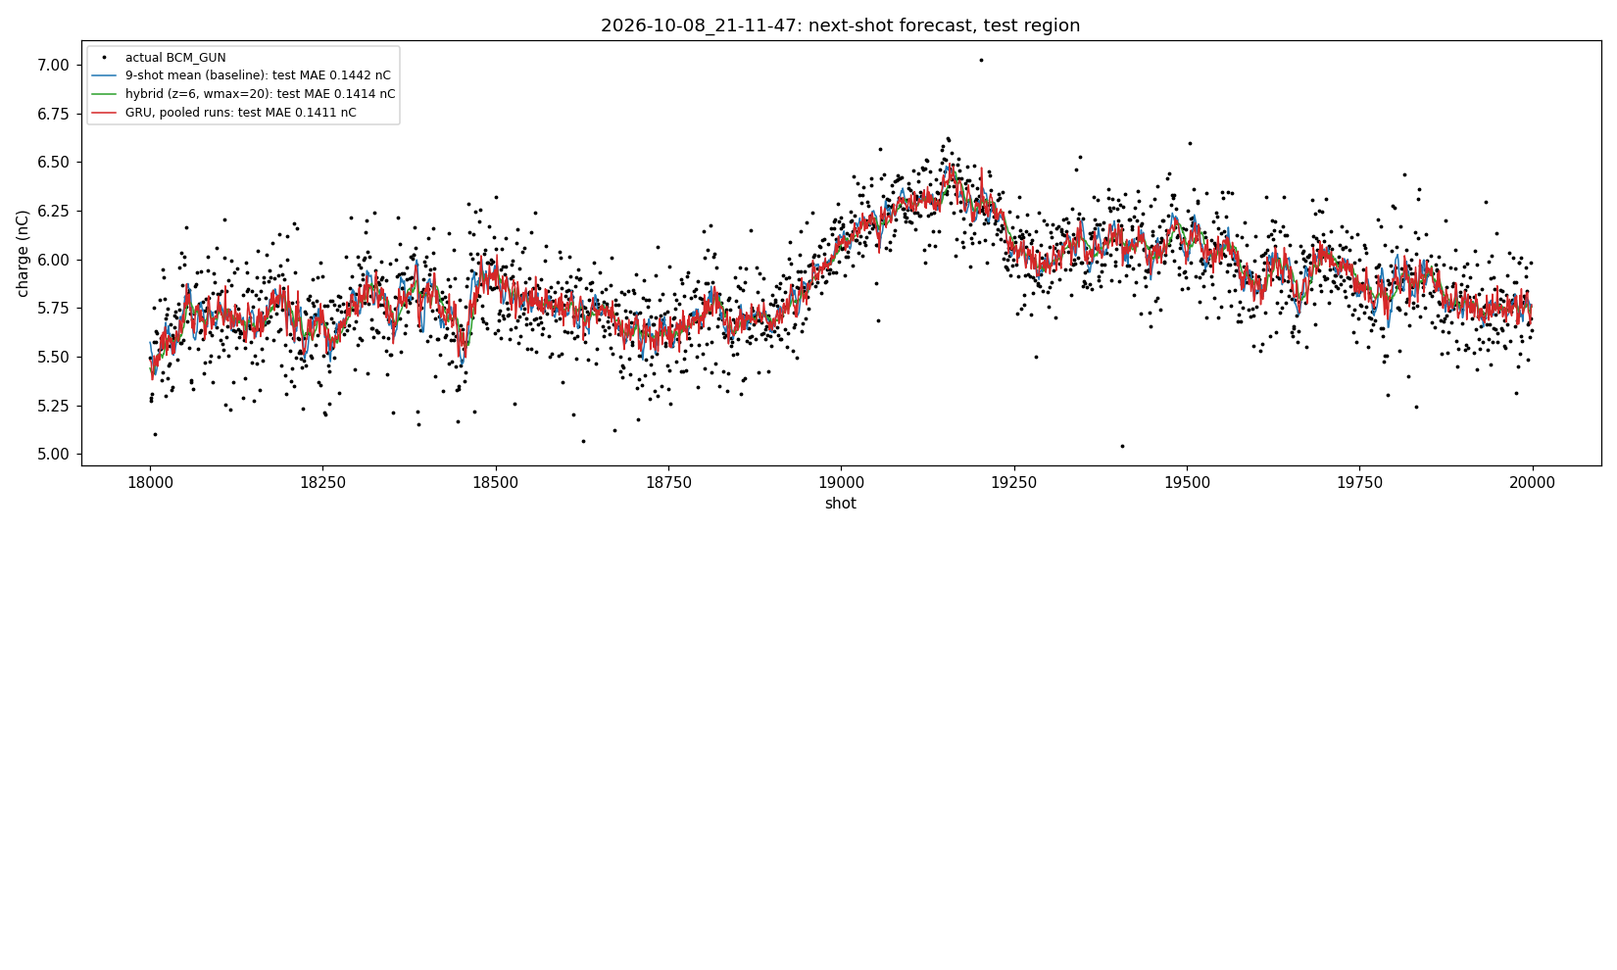
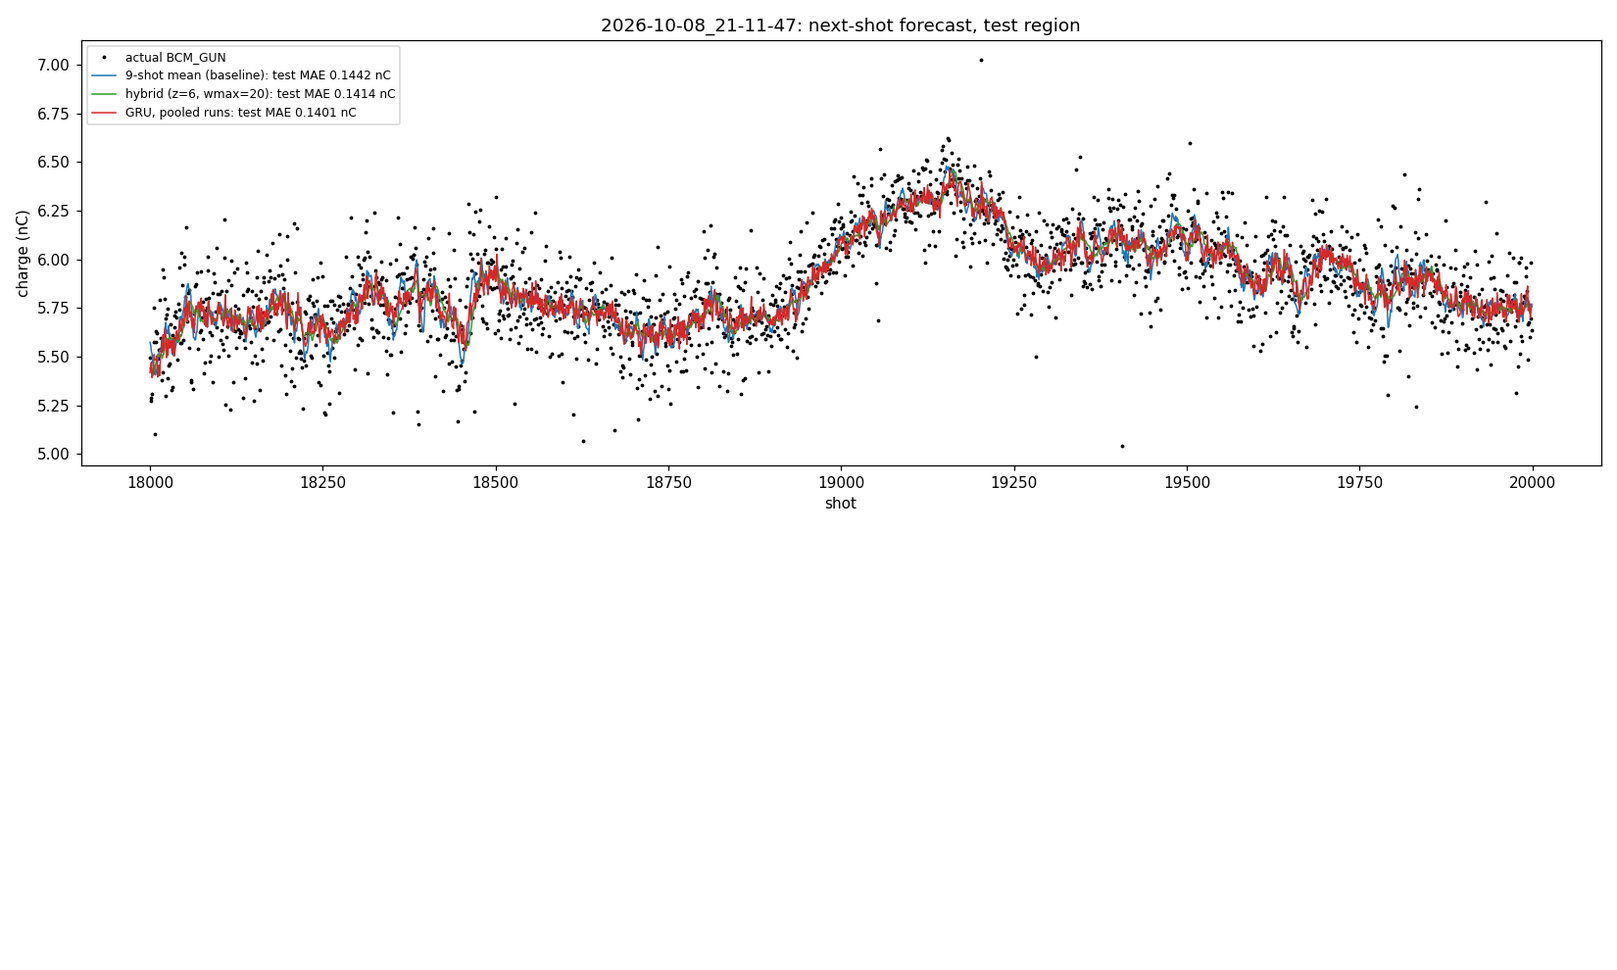
more gru

diff --git a/scripts/gru_forecast.py b/scripts/gru_forecast.py
@@ -1,15 +1,18 @@
 # Next-shot GRU forecaster (the sequence model of the Hard tier), compared with the hybrid and the combined forecaster.
-# Input: the last L shots, each with
-#   q      the charge if the hybrid used the shot (else 0, with skip = 1)
+# Like the ridge in combined_forecast.py, the GRU corrects the hybrid level on stable beam. Input: the last L shots of
+# the current segment (since the last level change), each with
+#   q      the charge if the hybrid used the shot (else 0, with skip = 1; steps before the segment are skipped too)
 #   level  the hybrid level after that shot
 #   lab, clex, step  the laser meters and the beam-loading-step charge
 # Charges are divided by the hybrid level after the newest shot, the meters by their window mean, so one model serves
-# 0.3 to 20 nC. Output: the next shot relative to that level (0 = the hybrid), trained with an L1 loss (the metric is
-# MAE) on every good next shot of each run's first 90 %; the last 10 % of those are the validation set for early
-# stopping. Each variant is trained with several seeds and their predictions averaged. Scored on each run's last 10 %
-# with score_forecast (h=1). To try more inputs, add channels in windows().
+# 0.3 to 20 nC; then each channel by its training std, clipped at CLIP. Output: the next shot relative to that level
+# (0 = the hybrid), trained with an L1 loss (the metric is MAE) on the stable shots of each run's first 90 %, the last
+# 10 % of those for early stopping; applied once the segment is AGE_MIN shots old. Each variant is trained with
+# several seeds and their forecasts averaged. Scored on each run's last 10 % with score_forecast (h=1).
+# To try more inputs, add channels in windows(). The notebook variables (klystron, gun field, magnets, temperatures,
+# humidities, laser scope) were screened and add nothing for the next shot (see the README).
 # Usage: python -I gru_forecast.py <tables dir> <out dir> <run> [<run> ...]
-import os, sys, time
+import os, sys, time, warnings
 sys.path.insert(0, os.path.dirname(os.path.abspath(__file__)))
 import numpy as np
 import pandas as pd
@@ -23,7 +26,10 @@ H = 32                  # GRU hidden size
 SEEDS = (0, 1, 2)
 BATCH, EPOCHS, PATIENCE, LR = 256, 40, 5, 1e-3
 CHANNELS = ['q', 'skip', 'level', 'lab', 'clex', 'step']
-CHARGE_ONLY = 3         # the first 3 channels
+LASER = ('lab', 'clex', 'step')                    # dropped in the charge-only variant
+CLIP = 5                # clip the standardised inputs (in training std): a laser step must not saturate the GRU
+STABLE_ONLY = True      # train on stable beam, apply once the segment is AGE_MIN old (as the ridge correction)
+VARIANTS = ('pooled runs', 'pooled runs, charge only', 'other runs only')
 
 
 def windows(r):
@@ -32,15 +38,24 @@ def windows(r):
     raw = {'q': np.where(used, r['df'][TARGET].values, np.nan), 'skip': (~used).astype(float), 'level': p,
            'lab': x.lab.values, 'clex': x.clex.values, 'step': x.step.values}
     W = {k: np.lib.stride_tricks.sliding_window_view(v, L) for k, v in raw.items()}     # row j = shots j .. j+L-1
+    # only the current segment (since the last level change), as in the ridge's features: a window reaching back to
+    # the old level never occurs in the stable training shots, and the GRU then predicts nonsense (+26 % on run 3)
+    seg = np.lib.stride_tricks.sliding_window_view(r['seg'].values, L)
+    old = seg != seg[:, -1:]
+    W = {k: np.where(old, 1.0 if k == 'skip' else np.nan, v) for k, v in W.items()}
     pn = p[L - 1:, None]
-    f = {'q': W['q'] / pn - 1, 'skip': W['skip'], 'level': W['level'] / pn - 1,
-         'lab': W['lab'] / W['lab'].mean(1, keepdims=True) - 1, 'clex': W['clex'] / W['clex'].mean(1, keepdims=True) - 1,
-         'step': (W['step'] - W['step'].mean(1, keepdims=True)) / pn}          # the step has an offset at low charge
+    with np.errstate(invalid='ignore', divide='ignore'), warnings.catch_warnings():
+        warnings.simplefilter('ignore', RuntimeWarning)                        # all-NaN windows (meter gaps)
+        f = {'q': W['q'] / pn - 1, 'skip': W['skip'], 'level': W['level'] / pn - 1,
+             'lab': W['lab'] / np.nanmean(W['lab'], 1, keepdims=True) - 1,
+             'clex': W['clex'] / np.nanmean(W['clex'], 1, keepdims=True) - 1,
+             'step': (W['step'] - np.nanmean(W['step'], 1, keepdims=True)) / pn}   # the step has an offset at low charge
     # clip: a feature gone wild (as the step did at 0.3 nC) must not dominate
     X = np.nan_to_num(np.stack([f[c] for c in CHANNELS], -1), nan=0, posinf=0, neginf=0).clip(-5, 5).astype(np.float32)
     y = r['q'].shift(-1).values[L - 1:] / p[L - 1:] - 1
     j = len(X) // 2
     assert np.isclose(X[j, -1, 0], (raw['q'][j + L - 1] / p[j + L - 1] - 1) if used[j + L - 1] else 0, atol=1e-6)
+    assert (X[old][:, 1] == 1).all() and (X[old][:, 0] == 0).all()           # steps before the segment are blanked
     return X, y
 
 
@@ -51,7 +66,7 @@ class GRU(torch.nn.Module):
         self.gru, self.out = torch.nn.GRU(len(scale), H, batch_first=True), torch.nn.Linear(H, 1)
 
     def forward(self, X):
-        return self.out(self.gru(X / self.scale)[0][:, -1]).squeeze(-1)
+        return self.out(self.gru((X / self.scale).clamp(-CLIP, CLIP))[0][:, -1]).squeeze(-1)
 
 
 def predict(model, X):
@@ -60,20 +75,22 @@ def predict(model, X):
 
 
 def fit(R, runs, c, seed):
-    # train on the good next shots of the runs' first 90 %, early-stop on the last 10 % of those
+    # train on the good next shots of the runs' first 90 % (or the stable ones), early-stop on the last 10 % of those
     tr, va = [], []
     for run in runs:
         r = R[run]
         shot = r['df'].index.values[L - 1:]
-        ok = np.flatnonzero(np.isfinite(r['wy']) & (shot + 1 < cut_shot(r['df'])))
+        ok = r['fit'][L - 1:] & r['used'][L - 1:] if STABLE_ONLY else np.isfinite(r['wy']) & (shot + 1 < cut_shot(r['df']))
+        ok = np.flatnonzero(ok)
         k = int(0.9 * len(ok))
-        tr.append((r['wX'][ok[:k], :, :c], r['wy'][ok[:k]])); va.append((r['wX'][ok[k:], :, :c], r['wy'][ok[k:]]))
+        tr.append((r['wX'][ok[:k]][:, :, c], r['wy'][ok[:k]])); va.append((r['wX'][ok[k:]][:, :, c], r['wy'][ok[k:]]))
     Xt, yt = torch.from_numpy(np.concatenate([a for a, _ in tr])), torch.from_numpy(np.concatenate([b for _, b in tr]))
     Xv, yv = np.concatenate([a for a, _ in va]), np.concatenate([b for _, b in va])
     torch.manual_seed(seed)
     model = GRU(Xt.std((0, 1)).clamp(min=1e-6))
+    torch.nn.init.zeros_(model.out.weight); torch.nn.init.zeros_(model.out.bias)       # starts as the hybrid ...
     opt = torch.optim.Adam(model.parameters(), LR)
-    best, state, wait = np.inf, None, 0
+    best, state, wait = np.mean(np.abs(yv)), {k: t.clone() for k, t in model.state_dict().items()}, 0   # ... and may stay it
     for epoch in range(EPOCHS):
         model.train()
         for b in torch.randperm(len(Xt)).split(BATCH):
@@ -97,10 +114,10 @@ def main():
     R = {run: prepare(tables, run) for run in runs}
     for r in R.values():
         r['wX'], r['wy'] = windows(r)
-    variants = {'GRU, pooled runs': (lambda run: runs, len(CHANNELS)),
-                'GRU, pooled runs, charge only': (lambda run: runs, CHARGE_ONLY)}
-    if len(runs) > 1:
-        variants['GRU, other runs only'] = (lambda run: [o for o in runs if o != run], len(CHANNELS))
+    every, charge = list(range(len(CHANNELS))), [i for i, k in enumerate(CHANNELS) if k not in LASER]
+    variants = {'GRU, pooled runs': (lambda run: runs, every), 'GRU, pooled runs, charge only': (lambda run: runs, charge),
+                'GRU, other runs only': (lambda run: [o for o in runs if o != run], every)}
+    variants = {k: v for k, v in variants.items() if k[5:] in VARIANTS and (len(runs) > 1 or 'other' not in k)}
     preds = {}                                   # (variant, run) -> per-seed next-shot forecasts
     for name, (src, c) in variants.items():
         for use in dict.fromkeys(tuple(src(run)) for run in runs):
@@ -113,7 +130,10 @@ def main():
                     if tuple(src(run)) == use:
                         p = R[run]['p'].values
                         g = p.copy()                 # before the first full window: the hybrid
-                        g[L - 1:] = p[L - 1:] * (1 + predict(model, R[run]['wX'][:, :, :c]))
+                        # off when the newest shot was skipped (e.g. the BCM reads far below the step charge): windows
+                        # of skipped shots never occur in the stable training shots (-13 % on run 3's 1.67 nC plateau)
+                        on = R[run]['on'][L - 1:] & R[run]['used'][L - 1:] if STABLE_ONLY else 1
+                        g[L - 1:] = p[L - 1:] * (1 + on * predict(model, R[run]['wX'][:, :, c]))
                         preds.setdefault((name, run), []).append(g)
 
     ridge = RidgeCV(alphas=ALPHAS).fit(pd.concat([R[u]['F'][R[u]['fit']] for u in runs]),
@@ -134,6 +154,7 @@ def main():
             rows.append({'run': run, 'forecast': name, 'test MAE': score(r, v), 'seed std': spread.get(name, np.nan),
                          'stable': np.nanmean(e[st]), 'after change': np.nanmean(e[ch]) if ch.any() else np.nan})
         r['cands'] = cands
+    np.savez(os.path.join(out, 'gru_forecasts.npz'), **{f'{run}|{k}': v for run, r in R.items() for k, v in r['cands'].items()})
     T = pd.DataFrame(rows)
     T['dMAE %'] = T.groupby('run')['test MAE'].transform(lambda s: 100 * (1 - s / s.iloc[0]))
     pd.set_option('display.width', 250)

diff --git a/scripts/screen_variables.py b/scripts/screen_variables.py
@@ -1,0 +1,88 @@
+# Screen the notebook variables (klystron, gun field, magnets, temperatures, humidities, laser scope) for the next shot:
+# (1) same-shot r with the charge jitter (alignment check, replicates the notebooks),
+# (2) r of their causal deviations (1/9/50-shot segment mean minus the 200-shot one) with the hybrid's next-shot
+#     relative error on stable shots,
+# (3) leave-one-run-out ridge: stable test MAE with the combined features plus each group.
+# The scope is tried at its stamp alignment and one pulse either side: at -1 it is the NEXT shot's laser (a leak).
+# Usage: python -I screen_variables.py <tables dir>
+import os, sys
+sys.path.insert(0, os.path.dirname(os.path.abspath(__file__)))
+import numpy as np, pandas as pd
+from sklearn.linear_model import RidgeCV
+from combined_forecast import prepare, seg_mean, ALPHAS
+from nbfuncs import TARGET, scored_shots
+from pulses import align, pulse_ids, rf_shift, stamp_shift
+
+T = sys.argv[1]
+RUNS = ['2026-10-09_07-46-07', '2026-10-08_21-11-47', '2026-10-08_00-08-19']
+R = {}
+for run in RUNS:
+    r = prepare(T, run); df = r['df']
+    p = os.path.join(T, run)
+    d, L = np.load(p + '_rf.npz'), np.load(p + '_laser.npz')
+    pid = pulse_ids(d['t'], d['chunk'])
+    V = {}
+    rf = lambda k: align(d[k], pid, rf_shift(d[k + '_off']))
+    for k in ('PKI15A', 'PKI15P', 'PKR15A'):
+        V[k] = rf(k)[:, 300:640].mean(1)
+    P = rf('PGLA'); V['gun field'] = P[:, 400:600].mean(1) - P[:, :40].mean(1)
+    sc, t = L['scope'].astype(float), L['scope_times'][0]
+    clean = sc - sc[:, t < 5].mean(1, keepdims=True)
+    tmpl = np.nanmean(clean, 0) * ((t > 5.6) & (t < 39.8))
+    amp = clean @ tmpl / (tmpl @ tmpl)
+    bad = np.r_[False, np.all(sc[1:] == sc[:-1], 1)] | ~L['scope_acquired'].astype(bool) | L['scope_saturated'].astype(bool)
+    amp[bad] = np.nan
+    for k in (-1, 0, 1):
+        V[f'scope amp (stamp{k:+d})'] = align(amp, pid, stamp_shift(L['scope_off']) + k)
+    for k in ('DHG0130', 'SNH_110', 'SNI_120', 'TEMP1', 'TEMP2', 'TEMP3', 'TEMP4', 'HUMID1', 'HUMID2', 'HUMID3', 'HUMID4'):
+        V[k] = df[k].values.astype(float)
+    V['lab'], V['clex'], V['step'] = r['x'].lab.values, r['x'].clex.values, r['x'].step.values
+    r['V'] = pd.DataFrame(V, df.index).replace([np.inf, -np.inf], np.nan)
+    R[run] = r
+    print(run, 'scope bad', bad.mean().round(3), flush=True)
+
+def det(v):  # analysis-only detrend (centred), for the same-shot check
+    return v - v.rolling(51, center=True, min_periods=10).mean()
+
+rows = []
+for run, r in R.items():
+    st = r['stable']
+    qj = det(r['q'])
+    for k, v in r['V'].items():
+        vj = det(v)
+        m = st & vj.notna() & qj.notna()
+        # next-shot: causal deviation of the variable vs the hybrid's next-shot relative error, on fit rows
+        dev = {kk: seg_mean(v.interpolate(limit_direction='both'), r['seg'], kk) - seg_mean(v.interpolate(limit_direction='both'), r['seg'], 200) for kk in (1, 9, 50)}
+        f = r['fit'] | (st.shift(-1, fill_value=False).values & r['on'] & ~r['train'])
+        y = pd.Series(r['y'], v.index)
+        rows.append({'run': run[:13], 'var': k, 'same-shot r': np.corrcoef(vj[m], qj[m])[0, 1] if m.sum() > 50 else np.nan,
+                     **{f'next r dev{kk}': (lambda a, b: np.corrcoef(a, b)[0, 1])(*(s[f & np.isfinite(y.values) & dev[kk].notna().values] for s in (dev[kk], y))) for kk in (1, 9, 50)}})
+pd.set_option('display.width', 250); pd.set_option('display.max_rows', 200)
+print(pd.DataFrame(rows).pivot_table(index='var', columns='run', values=['same-shot r', 'next r dev1', 'next r dev9', 'next r dev50']).round(3).to_string())
+
+# leave-one-run-out ridge on stable shots: base features + each group's deviations, standardised per run's train std
+GROUPS = {'base': [], 'klystron': ['PKI15A', 'PKI15P', 'PKR15A'], 'gun field': ['gun field'], 'scope': ['scope amp (stamp+0)'],
+          'magnets': ['DHG0130', 'SNH_110', 'SNI_120'], 'temp': ['TEMP1', 'TEMP2', 'TEMP3', 'TEMP4'],
+          'humid': ['HUMID1', 'HUMID2', 'HUMID3', 'HUMID4']}
+GROUPS['all'] = sum(GROUPS.values(), [])
+def feats(r, names):
+    F = r['F'].copy()
+    for k in names:
+        v = r['V'][k].interpolate(limit_direction='both')
+        sd = v[r['train']].diff().std() or 1
+        for kk in (1, 9, 50):
+            F[f'{k}{kk}'] = ((seg_mean(v, r['seg'], kk) - seg_mean(v, r['seg'], 200)) / sd).clip(-10, 10)
+    return F.fillna(0)
+out = []
+for g, names in GROUPS.items():
+    for test in RUNS:
+        tr = [u for u in RUNS if u != test]
+        m = RidgeCV(alphas=ALPHAS).fit(pd.concat([feats(R[u], names)[R[u]['fit']] for u in tr]), np.concatenate([R[u]['y'][R[u]['fit']] for u in tr]))
+        r = R[test]
+        sh = scored_shots(r['df']); yq = r['df'].loc[sh, TARGET].values
+        pred = pd.Series(r['p'].values * (1 + r['on'] * m.predict(feats(r, names))), r['df'].index).shift(1).reindex(sh).values
+        st = (r['stable'] & ~r['train']).reindex(sh).values
+        out.append({'group': g, 'test run': test[:13], 'stable MAE': np.nanmean(np.abs(yq - pred)[st])})
+O = pd.DataFrame(out).pivot(index='group', columns='test run', values='stable MAE')
+print('\nstable test MAE (nC), correction trained on the other two runs\n', O.round(5).to_string())
+print('\nchange vs base (%)\n', (100 * (O / O.loc['base'] - 1)).round(2).to_string())

diff --git a/scripts/combined_forecast.py b/scripts/combined_forecast.py
@@ -59,7 +59,7 @@ def prepare(tables, run):
     # train the correction on stable beam only: during scans the charge ramps without a restart, and learning to chase
     # the last shots there adds noise on stable beam. (The label looks ahead, but only selects training rows.)
     fit = train & (df.index + 1 < cut) & np.isfinite(y) & stable.shift(-1, fill_value=False).values & on
-    return dict(df=df, p=p, F=F, y=y, fit=fit, on=on, jump=jump, stable=stable, train=train, q=q, med=med, x=x,
+    return dict(df=df, p=p, F=F, y=y, fit=fit, on=on, jump=jump, stable=stable, train=train, q=q, med=med, x=x, seg=seg,
                 used=np.asarray(used, bool))
 
 

diff --git a/scripts/README.md b/scripts/README.md
@@ -25,7 +25,8 @@ PY=python3 scripts/run_pipeline.sh 2026-10-09_07-46-07 data/h5 data/tables resul
 | `forecasters.py` | `hybrid()`: the level-change-aware mean, shared by the two scripts below |
 | `hybrid_forecast.py` | Tunes and scores the hybrid on one run |
 | `combined_forecast.py` | The hybrid plus a ridge correction, trained across runs (below); run it after `run_pipeline.sh` |
-| `gru_forecast.py` | GRU sequence model on the last 64 shots, trained across runs (below); needs PyTorch |
+| `gru_forecast.py` | GRU sequence model: a stable-beam correction of the hybrid from the last 64 shots, trained across runs (below); needs PyTorch |
+| `screen_variables.py` | Tests whether the notebook variables (klystron, gun field, magnets, climate, laser scope) help the next-shot forecast |
 
 Run the scripts with `python -I`. The tables match the ones made from the pickles, except that the camera
 columns are left out.
@@ -220,52 +221,82 @@ python3 -I scripts/combined_forecast.py data/tables results/combined 2026-10-09_
 
 ```bash
 python3 -I scripts/gru_forecast.py data/tables results/gru 2026-10-09_07-46-07 2026-10-08_21-11-47 2026-10-08_00-08-19
+python3 -I scripts/screen_variables.py data/tables      # the notebook-variable screen below
 ```
 
-**How it works:**
-- **Input:** the last 64 shots, each with six channels:
-  - charge (0 where the hybrid skipped the shot, plus a skip flag);
+**How it works:** like the ridge in the combined forecaster, the GRU corrects the hybrid level on stable beam.
+- **Input:** the last 64 shots of the current segment (since the last level change), with six channels:
+  - charge (0 where the hybrid skipped the shot, plus a skip flag; steps before the segment count as skipped);
   - hybrid level;
   - lab and clex laser meters;
   - beam-loading-step charge.
-- **Scaling:** charges are divided by the hybrid level at the newest shot, and the laser meters by their window mean.
-  Each channel is then divided by its training std.
-- **Output:** the next shot relative to the hybrid level, so 0 means "same as the hybrid".
+- **Scaling:** charges are divided by the hybrid level at the newest shot, and the meters by their window mean.
+  Each channel is then divided by its training std and clipped at ±5.
+- **Output:** the next shot relative to the hybrid level. The output layer starts at zero, so the untrained GRU *is*
+  the hybrid.
 - **Model:** one GRU layer with 32 hidden units, then a linear layer.
 - **Training:**
   - L1 loss, because the metric is MAE.
-  - Trained on every good next shot of the first 90 % of the runs, early-stopped on the last 10 % of those.
+  - Trained on the stable shots of the first 90 % of the runs, early-stopped on the last 10 % of those.
+  - The untrained (= hybrid) state is an early-stopping candidate too, so a fit that never beats the hybrid stays
+    the hybrid.
   - 3 seeds per variant, with their forecasts averaged.
-- **Run time:** about 1 min per fit on 4 CPU threads (12 threads is 9× slower), about 15 min in total.
+- **When it applies:** once the segment is ≥ 20 shots old and the newest shot was used by the hybrid.
+- **Run time:** ~1 min per fit on 4 CPU threads (12 threads is 9× slower), ~20 min in total.
 - **To try more inputs, add channels in `windows()`.**
 
 | Next-shot test MAE (nC) | run 1 (09_07) | run 2 (08_21) | run 3 (08_00) |
 |---|---|---|---|
 | 9-shot mean (baseline) | 0.505 | 0.1442 | 0.0702 |
-| hybrid (z = 6, wmax = 20) | 0.348 (−31 %) | 0.1414 (−2 %) | 0.0482 (−31 %) |
-| **combined (hybrid + ridge)** | **0.341 (−33 %)** | **0.1396 (−3 %)** | **0.0480 (−32 %)** |
-| GRU, pooled runs, charge only | 0.350 (−31 %) | 0.1416 (−2 %) | 0.0506 (−28 %) |
-| GRU, pooled runs, all inputs | 0.366 (−28 %) | 0.1411 (−2 %) | 0.0543 (−23 %) |
-| GRU, other runs only, all inputs | 0.410 (−19 %) | 0.1414 (−2 %) | 0.0575 (−18 %) |
-| GRU, all inputs, not standardised (first try) | 0.351 (−31 %) | 0.1413 (−2 %) | 0.0491 (−30 %) |
+| hybrid (z = 6, wmax = 20) | 0.348 (−31.2 %) | 0.1414 (−1.9 %) | 0.0482 (−31.3 %) |
+| combined (hybrid + ridge), trained on all 3 runs | 0.3411 (−32.5 %) | 0.1396 (−3.2 %) | 0.0480 (−31.6 %) |
+| **GRU, pooled runs** | **0.3411 (−32.5 %)** | **0.1401 (−2.8 %)** | **0.0481 (−31.6 %)** |
+| GRU, pooled runs, charge only | 0.3425 (−32.2 %) | 0.1405 (−2.5 %) | 0.0480 (−31.7 %) |
+| GRU, other runs only (frozen test) | 0.3412 (−32.5 %) | 0.1404 (−2.6 %) | 0.0481 (−31.5 %) |
+| *first GRU (all shots, whole window, no clip)* | *0.366* | *0.1411* | *0.0543* |
 
-Seed-to-seed spread of the test MAE: 0.0002–0.011 nC, and 0.09 nC for "other runs only" on run 1.
+Seed-to-seed spread of the test MAE: ≤ 0.0011 nC. Every fit now beats the hybrid on validation (e.g. 4.62–4.64 %
+against 4.66 % L1).
 
-- **The GRU satisfies the Hard-tier rule** (a sequence model that beats the 9-shot mean on a chronological split).
-  It does not beat the hybrid it starts from.
-- **On validation it only matches the hybrid**, in every fit (5.27–5.28 % L1 against 5.27 % for the hybrid
-  alone). There is little sequence structure left to learn:
-  - the stable-beam jitter is nearly white (lag-1 autocorrelation ~0.14);
-  - level changes have no warning in the laser data;
-  - the slow laser-driven drift is the ~2–3 % that the ridge correction already takes.
-- **Where it loses is just after step-ups, where it overshoots.** After 0.25 → 1.67 nC it predicts 2.2 nC and decays
-  back over ~20 shots (`gru_<run>.png`, zooms).
-  - The laser channels drive it: a 4 → 11 uJ jump, divided by a training std of ~0.03, saturates the GRU.
-  - The charge-only variant, and the first try without standardisation, overshoot much less.
-- **"Other runs only" is weak on run 1.** Runs 2 and 3 contain no 10 → 19 nC jumps to learn from.
-- **Things to try:**
-  - clip the standardised inputs (at ±5 std);
-  - train on stable shots only, as the ridge correction does;
-  - a longer window (the ridge's strongest feature is a 200-shot mean);
-  - use the GRU as a correction on top of the combined forecaster.
+- **The GRU now matches the combined forecaster on all three runs**, and transfers to an unseen run. It satisfies
+  the Hard-tier rule: a sequence model that beats the 9-shot mean on a chronological split.
+- **What made the difference.** Each fix came from looking at where the GRU lost:
 
+| Step | Run 1 | Run 2 | Run 3 |
+|---|---|---|---|
+| first GRU | 0.366 | 0.1411 | 0.0543 |
+| + clip the standardised inputs (laser steps saturated the GRU) | 0.358 | 0.1412 | 0.0501 |
+| + train on stable shots only, apply after 20 shots in a segment | 0.344 | 0.1400 | 0.0504 |
+| + window limited to the current segment | 0.3415 | 0.1401 | 0.0503 |
+| + off when the newest shot was skipped; zero-initialised output | 0.3411 | 0.1401 | 0.0481 |
+
+  (pooled-runs variant; a 50/200-shot segment-mean channel was also tried and made no difference.)
+- **The run-3 plateau.** At shots 23394–23445 the BCM reads a steady 1.67 nC, while the beam-loading step says
+  5.4 nC and the laser 11 uJ (about 5 nC earlier in the run). The BCM is probably wrong there, but the official score
+  uses it.
+  - The hybrid's stuck-BCM check skips these shots and holds 1.68, which happens to match.
+  - The GRU saw a window of skipped shots, never seen in training, and predicted 13 % low until it was switched off
+    there.
+
+### Do the notebook variables help? (`screen_variables.py`, `results/gru/screen_variables.txt`)
+
+- **Same shot, they correlate as the notebooks found.** Against the charge jitter: lab 0.62–0.65, clex 0.57–0.63,
+  laser scope 0.36–0.45, step 0.28–0.37. Klystron, gun field, magnets, temperatures and humidities are all |r| < 0.09.
+- **For the next shot, none of them helps.** Added to the correction, each group changes the stable-beam MAE on an
+  unseen run by less than 0.5 %. All of them together make run 3 1.4 % worse.
+  - The jitter is laser-driven, and the next pulse's laser energy is not predictable from earlier pulses.
+  - The slow variables (temperature, humidity, magnets) do not lead the charge drift by enough to matter.
+- **A trap:** the laser scope shifted one pulse early correlates 0.17–0.29 with the next-shot error, twice the lab
+  meter. That is because it is the next shot's laser reading, which is future data. Its same-shot r peaks at the stamp
+  alignment, which confirms the stamp alignment. Any new variable that suddenly predicts well should get this check.
+
+### Where the error is (summed |error|, combined forecaster, test regions)
+
+| | stable beam | 20 shots after a change | other (unsettled beam) |
+|---|---|---|---|
+| run 1 | 62 % | 19 % (66 of the 71 nC in the first 3 shots of a new level) | 19 % |
+| run 2 | 100 % | – | – |
+| run 3 | 26 % | 40 % | 33 % |
+
+- On stable beam the remaining error is white, laser-driven jitter.
+- After a change, nearly all of the error is in the first shot or two. Changes come without warning in the data.
